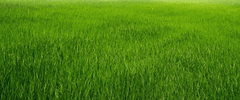
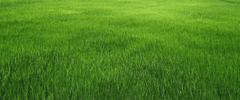
Slight tweaks to FPS, ground now has 4 textures. Asphalt needed now.

diff --git a/project/scenes/gameplay/gameplay_scene.h b/project/scenes/gameplay/gameplay_scene.h
@@ -19,7 +19,7 @@
 #include "../../game_components/texture.h"          /// Multi-textures.
 #include "../../graphics/graphics_layer.h"          /// `graphics_layer.renderer`
 
-#define GAMEPLAY_DATA_LINES 9
+#define GAMEPLAY_DATA_LINES 10
 
 
 /* Struct */
@@ -102,7 +102,7 @@ struct Gameplay_Scene load_gameplay_scene(const char path[], struct Car* car_ptr
         add_to_deinit_stack(&deinit_stack, result.sky_bg, (void (*)(void*))SDL_DestroyTexture);
 
     /// Ground
-    result.ground = init_shifting_texture((SDL_FRect){0, RENDER_HEIGHT - 100, 240, 100}, 3, 300, exit_code);
+    result.ground = init_shifting_texture((SDL_FRect){0, RENDER_HEIGHT - 100, 240, 100}, 4, 150, exit_code);
     if (*exit_code == EXIT_FAILURE)
     {
         print_error("`load_gameplay_scene()`: couldn't load the ground texture", NON_SDL_ERROR);
@@ -114,7 +114,8 @@ struct Gameplay_Scene load_gameplay_scene(const char path[], struct Car* car_ptr
     add_to_deinit_stack(&deinit_stack, &result.ground, (void (*)(void*))free_shifting_texture); ///  TODO: try replacing it with an incorrect method and see what happens?
     add_to_shifting_texture(&result.ground, scene_data[1], exit_code); /// TODO: find a way
     add_to_shifting_texture(&result.ground, scene_data[2], exit_code); /// to check `exit_code`
-    add_to_shifting_texture(&result.ground, scene_data[3], exit_code); /// w/o obnoxious `if() {}` blocks.
+    add_to_shifting_texture(&result.ground, scene_data[3], exit_code); /// w/o obnoxious
+    add_to_shifting_texture(&result.ground, scene_data[4], exit_code); /// `if() {}` blocks.
 
     /// Road
     result.road = init_shifting_texture((SDL_FRect){0, RENDER_HEIGHT - 100, 240, 100}, 4, 150, exit_code);
@@ -127,13 +128,13 @@ struct Gameplay_Scene load_gameplay_scene(const char path[], struct Car* car_ptr
         return result;
     }
     add_to_deinit_stack(&deinit_stack, &result.road, (void (*)(void*))free_shifting_texture);
-    add_to_shifting_texture(&result.road, scene_data[4], exit_code);
     add_to_shifting_texture(&result.road, scene_data[5], exit_code);
     add_to_shifting_texture(&result.road, scene_data[6], exit_code);
     add_to_shifting_texture(&result.road, scene_data[7], exit_code);
+    add_to_shifting_texture(&result.road, scene_data[8], exit_code);
 
     /// Trees
-    result.trees = load_multi_texture(scene_data[8], 1, exit_code);
+    result.trees = load_multi_texture(scene_data[9], 1, exit_code);
     if (*exit_code == EXIT_FAILURE)
     {
         print_error("`load_gameplay_scene()`: couldn't load the trees", NON_SDL_ERROR);

diff --git a/project/main.c b/project/main.c
@@ -102,7 +102,7 @@ void game_loop(int* exit_code)
     logic_layer.curr_scene = &menu_scene;
 
     /// FPS measurement preparations
-    time_tick_ns render_start_tick   = 0; /// Temporary value.
+    time_tick_ns render_start_tick   = SDL_GetTicksNS();
     time_tick_ms fps_measure_1s_tick = SDL_GetTicks();
     unsigned int curr_fps = 0;
     unsigned int prev_fps = UINT_MAX;
@@ -111,7 +111,6 @@ void game_loop(int* exit_code)
     while (logic_layer.game_is_running)
     {
         /// Preparations
-        render_start_tick     = SDL_GetTicksNS();
         logic_layer.curr_tick = SDL_GetTicks();
         SDL_RenderClear(graphics_layer.renderer);
         SDL_SetRenderTarget(graphics_layer.renderer, graphics_layer.buffer);
@@ -160,9 +159,10 @@ void game_loop(int* exit_code)
         FPS_manager.delta_ns = SDL_GetTicksNS() - render_start_tick;
         if (FPS_manager.fps_capped && FPS_manager.target_delta_ns > FPS_manager.delta_ns)
         {
-            SDL_DelayNS(FPS_manager.target_delta_ns - FPS_manager.delta_ns);
+            SDL_DelayNS(FPS_manager.target_delta_ns - FPS_manager.delta_ns - FPS_manager.delta_ns/40.0);
             FPS_manager.delta_ns = FPS_manager.target_delta_ns;
         }
+        render_start_tick = SDL_GetTicksNS();
         
         /// FPS output
         if (SDL_GetTicks() - fps_measure_1s_tick >= 1000) /// 1s since last measurement elapsed.
